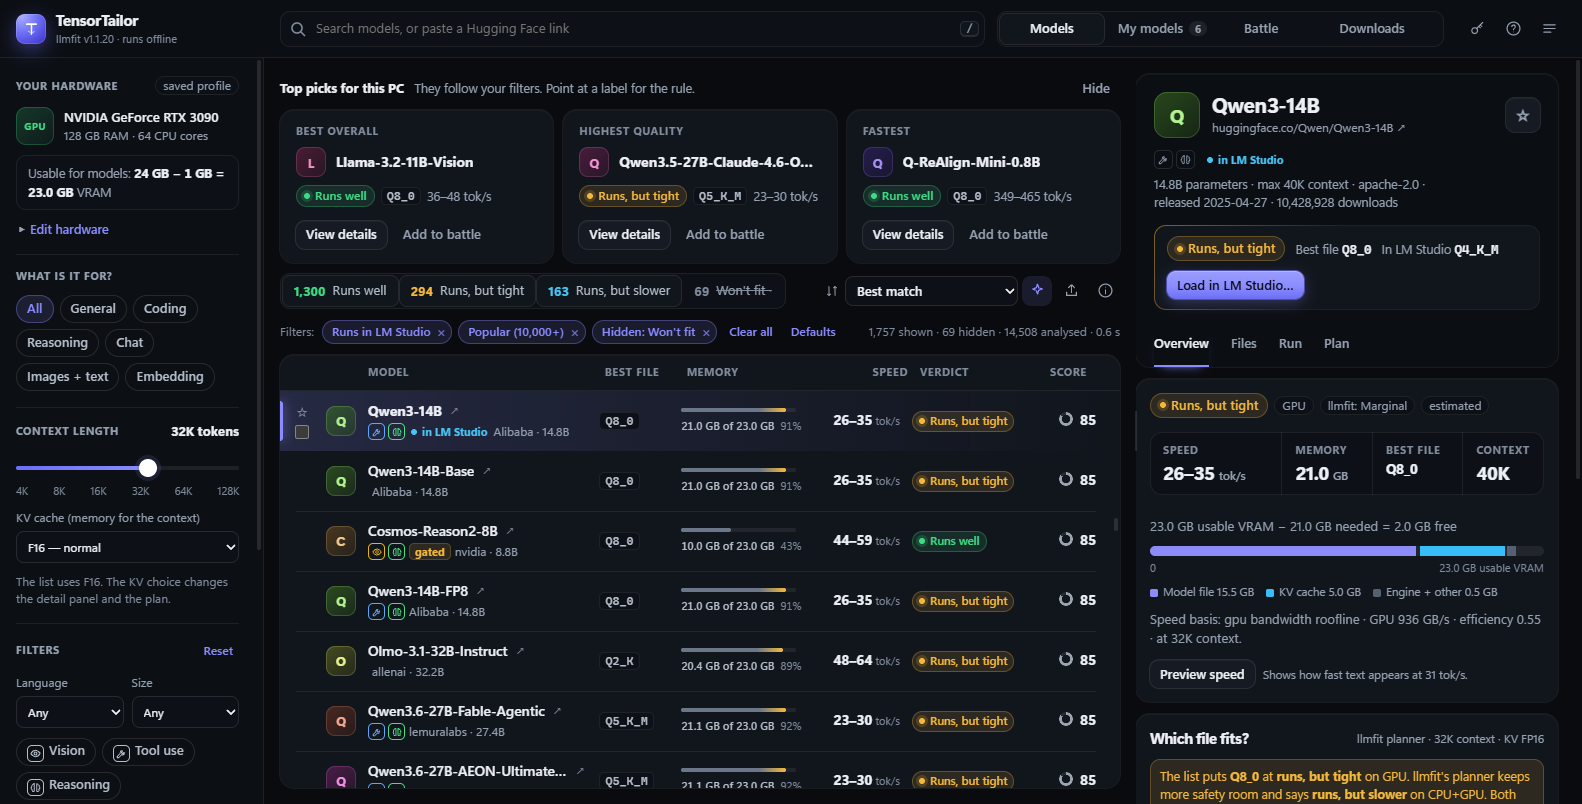
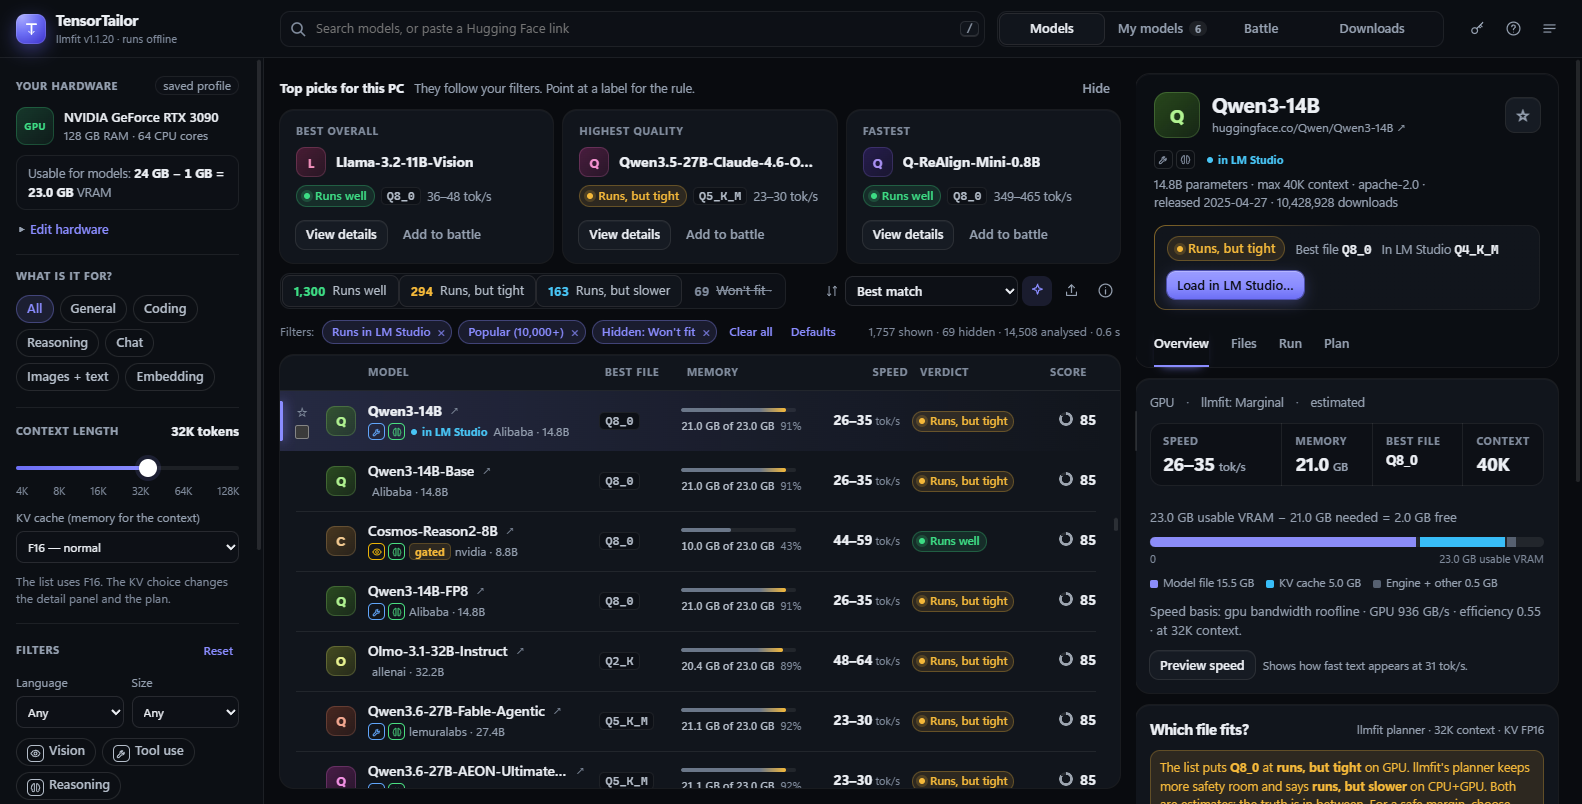
Implemented by Claude Opus 5.5: feat(web): Overview without a second verdict, a short Run intro
Refinement E4: the Overview shows one quiet line (runs on, llmfit's level, estimated or measured) instead of a second row of verdict labels; the Run card starts with one short sentence, the LM Studio steps are folded under 'Set it by hand in LM Studio'. Help updated.

Changed region(s): [[0.7124, 0.4664, 0.9912, 0.8706], [0.7124, 0.9017, 0.9912, 1.0]]

diff --git a/web/app.html b/web/app.html
@@ -870,6 +870,16 @@ input[type="range"]:focus-visible::-webkit-slider-thumb { box-shadow: 0 0 0 4px 
 .fsub .rec { margin-left: 0; }
 .files-t .hash { margin-top: 3px; }
 .checks .btn.ghost.small { height: 24px; padding: 0 6px; color: var(--accent); font-size: 12px; }
+/* ==== Refinement E4: Overview without a second verdict, a short Run intro ==== */
+.ov-meta { display: flex; flex-wrap: wrap; gap: 4px 12px; margin-bottom: 12px; font-size: 12.5px; color: var(--muted); }
+.ov-meta span + span::before { content: "·"; margin-right: 12px; color: var(--faint); }
+.ov-meta .ok { color: var(--perfect); font-weight: 600; }
+.run-for { margin-bottom: 4px; }
+details.by-hand { margin: 0 0 6px; }
+details.by-hand > summary { cursor: pointer; font-size: 12.5px; font-weight: 600; color: var(--accent); list-style: none; }
+details.by-hand > summary::before { content: "›"; display: inline-block; width: 12px; transition: transform .15s; }
+details.by-hand[open] > summary::before { transform: rotate(90deg); }
+details.by-hand .hint { margin-top: 6px; }
 /* ==== Refinement E2: the Plan tab in plain words ==== */
 .stats.plan-need { grid-template-columns: 1fr 1fr; }
 .stats.plan-need .sub { font-size: 12px; color: var(--muted); margin-top: 3px; }
@@ -1187,10 +1197,10 @@ input[type="range"]:focus-visible::-webkit-slider-thumb { box-shadow: 0 0 0 4px 
     <dl>
       <dt>Top of the panel</dt><dd>The answer first: the verdict, the best file for this PC, the file you have in LM Studio (if any), and one action: <b>Load in LM Studio…</b> or <b>Choose a file to download</b>. The star button (☆) at the right stars the model as a favorite. Below the name: the labels, and one line with the facts (parameters, maximum context, license with "(gated)" or "(not gated)", release date, downloads). This part stays in view while you scroll; it shrinks to the name, the answer and the tabs.</dd>
       <dt>Panel width</dt><dd>Drag the thin line at the left edge of the detail panel to make it wider or narrower (or click it and use the arrow keys). Double-click the line for the normal width. The width is remembered in this browser.</dd>
-      <dt>Overview</dt><dd>Verdict, memory, speed, and "Which file fits?" for every quantization. When llmfit's planner (more safety room) rates the best file lower than the list, a yellow note says so and names the best file that runs well. <b>Preview speed</b> shows how fast text appears at that speed. "Why this result" lists llmfit's reasons.</dd>
+      <dt>Overview</dt><dd>One quiet line (runs on, llmfit's own level, estimated or measured), then speed, memory, best file and context, and "Which file fits?" for every quantization (the verdict itself is at the top of the panel). When llmfit's planner (more safety room) rates the best file lower than the list, a yellow note says so and names the best file that runs well. <b>Preview speed</b> shows how fast text appears at that speed. "Why this result" lists llmfit's reasons.</dd>
       <dt>KV cache from a real file</dt><dd>llmfit counts the memory for the context (the KV cache) exactly only when it knows a model's layers and head size. For about 4,900 models in its list it does not, and uses a rough rule. When TensorTailor reads a real GGUF file of such a model (your file in My models, or a file in the Files or Run tab), it fills in the missing values from the file's header. It never changes a value llmfit has, and skips a file that does not match. "Why this result" then says "KV cache counted from the GGUF header of …", and My models lists your models it did this for. Remembered in this browser.</dd>
       <dt>Files</dt><dd>The real files on Hugging Face, one line per file (point at a long name for the full name; the copy button copies the download link), the file "best for this PC" first, and the verdict per file. <b>Download</b> saves a file into your folder and checks its SHA-256 at the end. <b>Show SHA-256 of each file</b> (under the table) shows the codes; click one to copy it.</dd>
-      <dt>Run</dt><dd>"LM Studio load settings for this PC": what to set in LM Studio's load dialog for this model (context length, GPU offload, flash attention, K/V cache, speculative decoding, remember settings), with the reason; point at a <span class="q">?</span> for what each setting does. <b>Load in LM Studio with these settings</b> (when the model is in LM Studio and its server is on) first shows what will be sent, then asks LM Studio to load it: context length, flash attention, KV cache on the GPU and MTP. LM Studio's API cannot set GPU offload and K/V cache quantization, so LM Studio keeps its own setting for those. A model that is loaded already is unloaded first; other loaded models stay, unless you tick the box to unload them.</dd>
+      <dt>Run</dt><dd>"LM Studio load settings for this PC": what to set in LM Studio's load dialog for this model (context length, GPU offload, flash attention, K/V cache, speculative decoding, remember settings), with the reason; point at a <span class="q">?</span> for what each setting does. <b>Set it by hand in LM Studio</b> (folded) says where these settings are in LM Studio. <b>Load in LM Studio with these settings</b> (when the model is in LM Studio and its server is on) first shows what will be sent, then asks LM Studio to load it: context length, flash attention, KV cache on the GPU and MTP. LM Studio's API cannot set GPU offload and K/V cache quantization, so LM Studio keeps its own setting for those. A model that is loaded already is unloaded first; other loaded models stay, unless you tick the box to unload them.</dd>
       <dt>Run: Run it on this PC</dt><dd>Ready commands for LM Studio, llama.cpp or Ollama. With LM Studio, a model you already have shows <b>your</b> file first ("Your file in LM Studio · quant Q4_K_S"); llmfit's best file is named below it as an option: higher quality but less room for context, or smaller but lower quality. Below it: settings for AI agents (OpenCode, Codex).</dd>
       <dt>Plan</dt><dd>llmfit's planner: the minimum and recommended hardware, which routes work here (<b>GPU only</b>, <b>GPU + system RAM</b>, <b>CPU only</b>) with a verdict and speed for each, and <b>What would make it better?</b>: for example "+1.7 GB VRAM → Runs well (llmfit: Good)". Below: whether a target speed is reached, how many chats fit at the same time, and the disk space for your best models.</dd>
     </dl>
@@ -1914,7 +1924,7 @@ function tabOverview(r, d) {
   const b = r.best, basis = d && d.detail ? d.detail.fit.estimate_basis : null;
   const ladder = d && d.ladder;
   return `<section class="card">
-    <div class="verdict-big">${verdict(b.plain)}<span class="tag">${b.mode}</span><span class="tag">llmfit: ${LLMFIT_LABEL[b.level]}</span><span class="tag ${String(b.conf).startsWith("measured") ? "okay" : ""}">${esc(String(b.conf).replace("_", " "))}</span></div>
+    <div class="ov-meta" title="Runs on, llmfit's own level, and whether the speed is estimated or measured"><span>${esc(b.mode)}</span><span>llmfit: ${esc(LLMFIT_LABEL[b.level])}</span><span class="${String(b.conf).startsWith("measured") ? "ok" : ""}">${esc(String(b.conf).replace("_", " "))}</span></div>
     <div class="stats">
       <div class="stat" title="Speed in tokens per second"><div class="k">Speed</div><div class="v">${speedRange(b)}${b.tps > 0 ? " <small>tok/s</small>" : ""}</div>${measLine(r)}</div>
       <div class="stat" title="${b.mode === "MoE offload" ? `Total: ${gb(b.inGpu)} in VRAM + ${gb(b.inRam)} of experts in system RAM` : "Model file + KV cache + engine"}"><div class="k">Memory</div><div class="v">${(b.mode === "MoE offload" ? b.inGpu + b.inRam : b.need).toFixed(1)} <small>GB</small></div></div>
@@ -2201,7 +2211,8 @@ function lmsSettingsCard(r, repo, file) {
     loadBox = `<p class="hint">${state.lms.online ? lms ? "" : "To load it from here: download the model into LM Studio first (tab Files)." : "To load it from here: start LM Studio's server (Developer tab → server on), then open this tab again."}</p>`;
   }
   return `<section class="card">${head}${loadBox}
-    <p class="hint" style="margin-top:0">These settings are for <b>${esc(fileQuant)}</b>, ${lms && lmsOwnQuant(lms) === fileQuant ? "the file you have in LM Studio" : "the best file for this PC"}. ${loadBox.includes("data-lmsload") ? "Or set it by hand. " : ""}In LM Studio: <b>My Models</b> → the gear (⚙) next to the model, or <b>Load Model</b> with <b>Show advanced settings</b> on. Point at a <span class="q">?</span> for what a setting does. At the top, LM Studio shows its own "Estimated Memory Usage": keep the GPU value below about ${gb(usable * 0.92)}.</p>
+    <p class="hint run-for" style="margin-top:0">For <b>${esc(fileQuant)}</b>, ${lms && lmsOwnQuant(lms) === fileQuant ? "the file you have in LM Studio" : "the best file for this PC"}. Point at a <span class="q">?</span> for what a setting does.</p>
+    <details class="by-hand"><summary>Set it by hand in LM Studio</summary><p class="hint">In LM Studio: <b>My Models</b> → the gear (⚙) next to the model, or <b>Load Model</b> with <b>Show advanced settings</b> on, and use the values below. At the top, LM Studio shows its own "Estimated Memory Usage": keep the GPU value below about ${gb(usable * 0.92)}.</p></details>
     <div class="lmset">${rows.join("")}</div>
     <details style="margin-top:8px"><summary class="hint" style="cursor:pointer">Memory per context (llmfit estimate, ${esc(quant)})</summary><table class="ftable"><thead><tr><th class="r">Context</th><th class="r">KV F16</th><th class="r">KV Q8_0</th></tr></thead><tbody>${e.rows.map((x) => `<tr><td class="r">${x.ctx.toLocaleString("en")}</td><td class="r" style="${fits(x.f16) ? "" : "color:var(--tight)"}">${x.f16 != null ? gb(x.f16) : "—"}</td><td class="r" style="${fits(x.q8) ? "" : "color:var(--tight)"}">${x.q8 != null ? gb(x.q8) : "—"}</td></tr>`).join("")}</tbody></table></details></section>`;
 }
